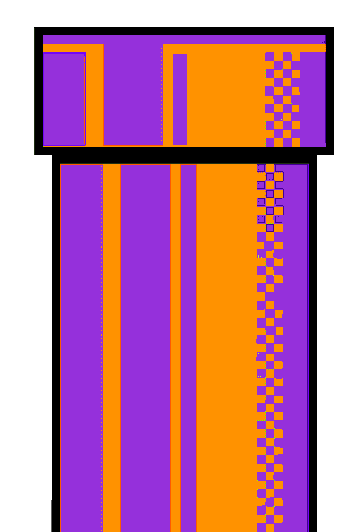
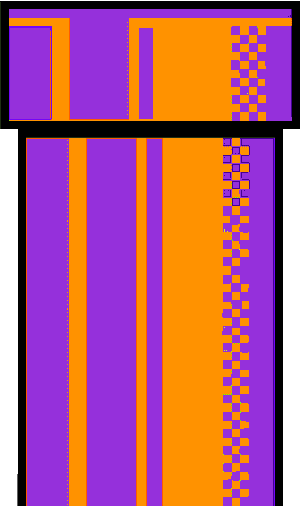
Adding score and collision to FlappyChoco

diff --git a/FlappyChoco/game.py b/FlappyChoco/game.py
@@ -6,13 +6,30 @@ from pipe import Pipe_top
 
 class Game:
     def __init__(self):
+        self.running = True
         self.screen = pygame.display.set_mode((800, 600))
         pygame.display.set_caption("Flappy Choco")
+        self.score = 0
         self.bg = pygame.image.load("Assets/background.png")
         self.choco = Chocolatine(200, 300)
-        self.pipe1_bot = Pipe_bot(1000, randint(150, 400))
-        self.pipe1_top = Pipe_top(1000, self.pipe1_bot.pos[1] - 600)
+        self.pipe1_bot = Pipe_bot(1000, randint(200, 450))
+        self.pipe1_top = Pipe_top(1000, self.pipe1_bot.pos[1] - 675)
+        self.player = pygame.sprite.Group()
+        self.pipes = pygame.sprite.Group()
+        self.player.add(self.choco)
+        self.pipes.add(self.pipe1_bot, self.pipe1_top)
+        self.font = pygame.font.Font(None, 128)
         self.t = 0
+
+# Function to display a number on the screen
+    def display_number(self, number):
+        text = self.font.render(f"{number}", True, [255, 255, 255])
+        self.screen.blit(text, (380, 280))
+
+    def check_collisions(self):
+            collisions = pygame.sprite.groupcollide(self.player, self.pipes, False, False)
+            if collisions:
+                self.running = False
 
     def handle_input(self):
         key_pressed = pygame.key.get_pressed()
@@ -23,6 +40,8 @@ class Game:
 
     def update(self):
         self.pipe1_bot.move()
+        if self.pipe1_bot.pos[0] == 1000:
+            self.score += 1
         self.pipe1_top.move(self.pipe1_bot.pos[1])
         self.choco.update()
 
@@ -30,14 +49,14 @@ class Game:
 
         clock = pygame.time.Clock()
 
-        running = True
-
-        while running:
+        while self.running:
 
             self.handle_input()
+            self.check_collisions()
             self.update()
 
             self.screen.blit(self.bg, (0, 0))
+            self.display_number(self.score)
             self.screen.blit(self.pipe1_bot.sprite, (self.pipe1_bot.pos[0], self.pipe1_bot.pos[1]))
             self.screen.blit(self.pipe1_top.sprite, (self.pipe1_top.pos[0], self.pipe1_top.pos[1]))
             self.screen.blit(self.choco.sprite, (self.choco.pos[0], self.choco.pos[1]))
@@ -46,7 +65,7 @@ class Game:
     
             for event in pygame.event.get():
                 if event.type == pygame.QUIT:
-                    running = False
+                    self.running = False
 
             clock.tick(60)
         pygame.quit()

diff --git a/FlappyChoco/pipe.py b/FlappyChoco/pipe.py
@@ -7,17 +7,19 @@ class Pipe_bot(pygame.sprite.Sprite):
         super().__init__()
         self.sprite = pygame.image.load("Assets/pipe_bot.png")
         self.sprite.set_colorkey([0, 0, 0])
-        self.sprite = pygame.transform.scale(self.sprite, (150, 450))
+        self.sprite = pygame.transform.scale(self.sprite, (100, 450))
         self.rect = self.sprite.get_rect()
+        self.rect.topleft = (x, y)
         self.pos = [x, y]
-        self.speed = 1
+        self.speed = 7
 
     def move(self):
         self.pos[0] -= self.speed
         if self.pos[0] < -150:
             self.pos[0] = 1000
-            self.pos[1] = randint(150, 400)
-            self.speed += 1
+            self.pos[1] = randint(200, 450)
+            #self.speed += 1
+        self.rect.topleft = (self.pos[0], self.pos[1])
 
 class Pipe_top(pygame.sprite.Sprite):
 
@@ -25,14 +27,16 @@ class Pipe_top(pygame.sprite.Sprite):
         super().__init__()
         self.sprite = pygame.image.load("Assets/pipe_top.png")
         self.sprite.set_colorkey([0, 0, 0])
-        self.sprite = pygame.transform.scale(self.sprite, (150, 450))
+        self.sprite = pygame.transform.scale(self.sprite, (100, 450))
         self.rect = self.sprite.get_rect()
+        self.rect.topleft = (x, y)
         self.pos = [x, y]
-        self.speed = 1
+        self.speed = 7
 
     def move(self, y_bot):
         self.pos[0] -= self.speed
         if self.pos[0] < -150:
             self.pos[0] = 1000
-            self.pos[1] = y_bot - 600
-            self.speed += 1
+            self.pos[1] = y_bot - 675
+            #self.speed += 1
+        self.rect.topleft = (self.pos[0], self.pos[1])

diff --git a/FlappyChoco/choco.py b/FlappyChoco/choco.py
@@ -6,8 +6,9 @@ class Chocolatine(pygame.sprite.Sprite):
         super().__init__()
         self.sprite = pygame.image.load("Assets/choco.png")
         self.sprite.set_colorkey([0, 0, 0])
-        self.sprite = pygame.transform.scale(self.sprite, (150, 150))
+        self.sprite = pygame.transform.scale(self.sprite, (100, 100))
         self.rect = self.sprite.get_rect()
+        self.rect.topleft = (x, y)
         self.pos = [x, y]
         self.flapping = False
         self.power = 15
@@ -34,3 +35,4 @@ class Chocolatine(pygame.sprite.Sprite):
         self.gravity *= 1.035
         self.flap()
         self.collide_window()
+        self.rect.topleft = (self.pos[0], self.pos[1])
